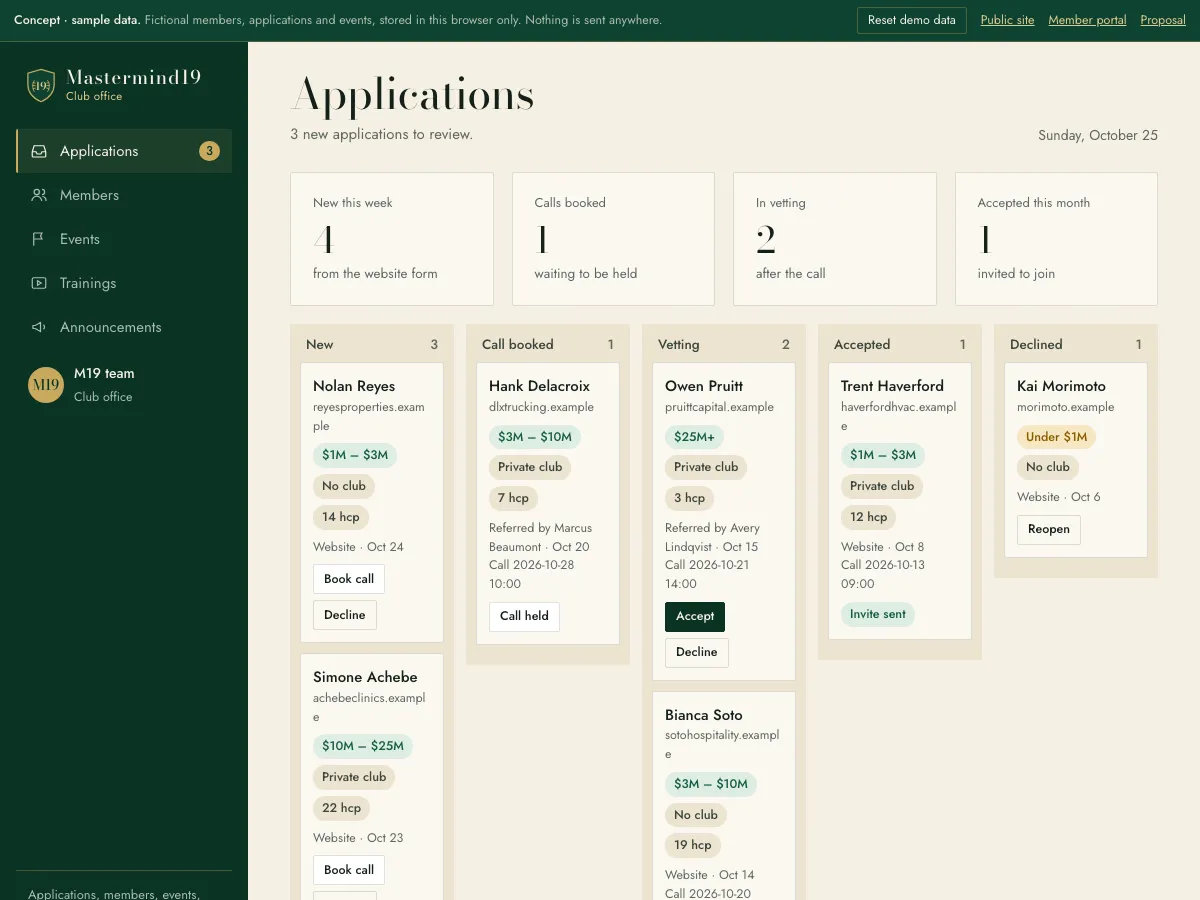
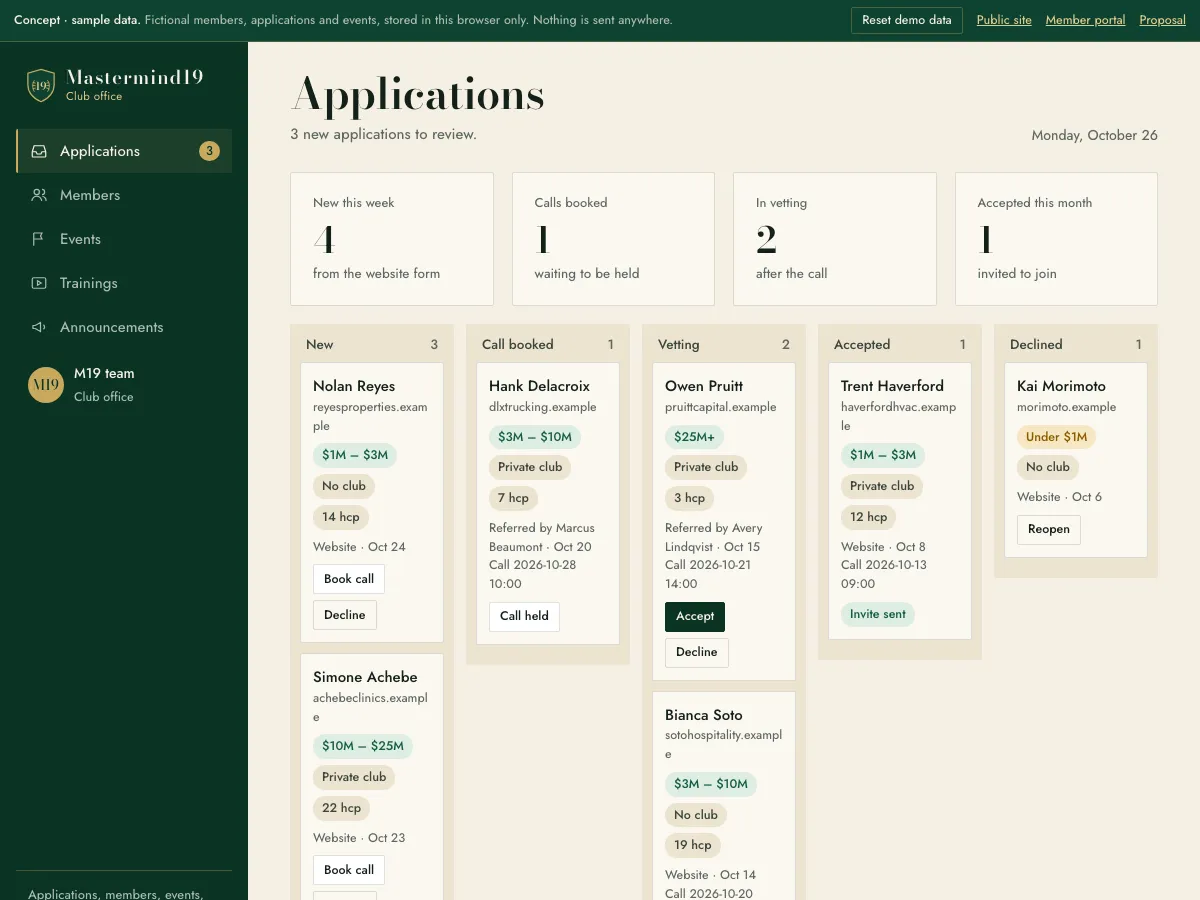
Mastermind19: heavier type (Bodoni Moda 600 at a fixed optical size, Jost 450)
Hairlines read too thin at display sizes. Display face now weight 600 with
opsz 28 everywhere it appears, body 450, nav 500; H1 trimmed so it holds
four lines. Proposal screenshots regenerated. Cache-busters bumped to v=2.

diff --git a/preview/mastermind19/site.css b/preview/mastermind19/site.css
@@ -10,16 +10,20 @@
   --ui:"Jost","Avenir Next","Helvetica Neue",system-ui,sans-serif;
   --ease:cubic-bezier(.2,.7,.1,1);
   --wrap:1240px; --gut:clamp(18px,4vw,56px);
+  --dw:600; --dopsz:28;
 }
 *{box-sizing:border-box}
 [hidden]{display:none!important}
 html{scroll-behavior:smooth;scroll-padding-top:90px;-webkit-text-size-adjust:100%}
-body{margin:0;background:var(--ivory);color:var(--ink);font-family:var(--ui);font-size:17px;line-height:1.6;font-weight:400;-webkit-font-smoothing:antialiased}
+body{margin:0;background:var(--ivory);color:var(--ink);font-family:var(--ui);font-size:17px;line-height:1.6;font-weight:450;-webkit-font-smoothing:antialiased}
 img,svg{display:block;max-width:100%}
 a{color:inherit}
 button{font:inherit;color:inherit;cursor:pointer}
-h1,h2,h3,h4{font-family:var(--display);font-weight:400;line-height:1.04;margin:0;letter-spacing:-.005em;text-wrap:balance}
-h1{font-size:clamp(44px,6.6vw,92px);line-height:.98;letter-spacing:-.015em}
+h1,h2,h3,h4{font-family:var(--display);font-weight:var(--dw);line-height:1.04;margin:0;letter-spacing:-.005em;text-wrap:balance}
+/* every display-face usage: sturdier hairlines via a fixed optical size */
+h1,h2,h3,h4,.kicker,.motto div,.manifesto .pull,.scorecard .what,.band blockquote,.founder .name,.founder .facts b,.qa summary,.steps b,.spread .where,.long-spreads .aside,.pagehead .side,.founder-page .portrait .mono,.hole .cap,footer .tag,.brand b,form.app .ok b{font-weight:var(--dw);font-optical-sizing:none;font-variation-settings:"opsz" var(--dopsz)}
+.kicker,.spread .where,.long-spreads .aside,.pagehead .side,.hole .cap,footer .tag{font-weight:500}
+h1{font-size:clamp(42px,6vw,84px);line-height:.98;letter-spacing:-.015em}
 h2{font-size:clamp(34px,4.4vw,58px)}
 h3{font-size:clamp(24px,2.4vw,32px)}
 p{margin:0}
@@ -34,10 +38,10 @@ p{margin:0}
 .top .wrap{display:flex;align-items:center;gap:28px;min-height:76px}
 .brand{display:flex;align-items:center;gap:12px;text-decoration:none;color:var(--ivory)}
 .brand .crest{width:34px;height:40px;flex:none}
-.brand b{font-family:var(--display);font-weight:500;font-size:22px;letter-spacing:.06em;line-height:1}
+.brand b{font-family:var(--display);font-size:22px;letter-spacing:.05em;line-height:1}
 .brand b small{display:block;font-family:var(--ui);font-weight:400;font-size:11.5px;letter-spacing:.02em;color:var(--brass2);margin-top:4px}
 .nav{display:flex;gap:28px;margin-left:auto;align-items:center}
-.nav a{text-decoration:none;font-size:15.5px;color:var(--ivory);padding:8px 0;border-bottom:1px solid transparent;transition:border-color .25s var(--ease)}
+.nav a{text-decoration:none;font-size:15.5px;font-weight:500;color:var(--ivory);padding:8px 0;border-bottom:1px solid transparent;transition:border-color .25s var(--ease)}
 .nav a:hover{border-bottom-color:var(--brass)}
 .nav a[aria-current=page]{border-bottom-color:var(--brass)}
 .nav .login{color:var(--brass2)}
@@ -75,7 +79,7 @@ section{padding:clamp(72px,9vw,128px) 0}
 .paper{background:var(--paper);color:var(--ink)}
 .kicker{font-family:var(--display);font-style:italic;font-size:19px;color:var(--brass2);margin-bottom:16px}
 .ivory .kicker,.linen .kicker,.paper .kicker{color:var(--goldk)}
-.lede{font-size:clamp(18px,1.5vw,21px);line-height:1.55;max-width:60ch;color:var(--ink2)}
+.lede{font-size:clamp(18px,1.5vw,21px);line-height:1.55;max-width:60ch;color:var(--ink2);font-weight:450}
 .dark .lede,.dark2 .lede{color:var(--muteD)}
 .rule{height:1px;background:var(--lineD);border:0;margin:0}
 .ivory .rule,.linen .rule,.paper .rule{background:var(--lineL)}
@@ -119,8 +123,8 @@ section{padding:clamp(72px,9vw,128px) 0}
 .yd .pin{stroke:var(--ivory);stroke-width:1.6}
 .yd .flag{fill:var(--flag)}
 .yd .cup{fill:var(--ivory)}
-.yd text{font-family:var(--display);fill:var(--ivory)}
-.yd .num{font-size:120px;font-weight:500;letter-spacing:-.04em}
+.yd text{font-family:var(--display);fill:var(--ivory);font-optical-sizing:none;font-variation-settings:"opsz" 28}
+.yd .num{font-size:120px;font-weight:700;letter-spacing:-.04em}
 .yd .lbl{font-family:var(--ui);font-size:13px;fill:var(--muteD);letter-spacing:.02em}
 .yd .frame{fill:none;stroke:var(--lineD);stroke-width:1}
 .ivory .yd .fw,.linen .yd .fw,.paper .yd .fw{fill:rgba(21,92,65,.08);stroke:var(--g700)}
@@ -154,7 +158,7 @@ section{padding:clamp(72px,9vw,128px) 0}
 .manifesto figure img{width:100%;height:auto;aspect-ratio:4/5;object-fit:cover;border-radius:2px}
 .manifesto figcaption{font-size:14px;color:var(--mute);margin-top:12px}
 .manifesto .pull{font-family:var(--display);font-size:clamp(26px,3vw,40px);line-height:1.22;margin:14px 0 22px;letter-spacing:-.005em}
-.manifesto .pull strong{font-weight:500;color:var(--g700)}
+.manifesto .pull strong{font-weight:700;color:var(--g700)}
 .manifesto .sub{font-size:18px;color:var(--ink2);max-width:52ch}
 @media (max-width:900px){.manifesto .wrap{grid-template-columns:1fr}.manifesto figure{order:2;max-width:520px}.manifesto figure img{aspect-ratio:3/2}}
 
@@ -214,7 +218,7 @@ section{padding:clamp(72px,9vw,128px) 0}
 .founder .facts div{padding:20px 0;border-right:1px solid var(--lineD);padding-right:16px}
 .founder .facts div+div{padding-left:22px}
 .founder .facts div:last-child{border-right:0}
-.founder .facts b{display:block;font-family:var(--display);font-weight:400;font-size:clamp(28px,3vw,42px);line-height:1}
+.founder .facts b{display:block;font-family:var(--display);font-size:clamp(28px,3vw,42px);line-height:1}
 .founder .facts span{display:block;font-size:14px;color:var(--muteD);margin-top:6px}
 @media (max-width:900px){.founder .wrap{grid-template-columns:1fr}.founder .facts{grid-template-columns:1fr}.founder .facts div{border-right:0;border-bottom:1px solid var(--lineD);padding:14px 0}.founder .facts div+div{padding-left:0}.founder .facts div:last-child{border-bottom:0}}
 
@@ -267,7 +271,7 @@ section{padding:clamp(72px,9vw,128px) 0}
 .steps{display:grid;grid-template-columns:repeat(3,minmax(0,1fr));gap:0;border:1px solid var(--lineD)}
 .steps div{padding:28px 26px 30px;border-right:1px solid var(--lineD)}
 .steps div:last-child{border-right:0}
-.steps b{display:block;font-family:var(--display);font-weight:400;font-size:26px;margin-bottom:10px}
+.steps b{display:block;font-family:var(--display);font-size:26px;margin-bottom:10px}
 .steps p{color:var(--muteD);font-size:16px}
 @media (max-width:800px){.steps{grid-template-columns:1fr}.steps div{border-right:0;border-bottom:1px solid var(--lineD)}.steps div:last-child{border-bottom:0}}
 
@@ -287,7 +291,7 @@ form.app .consent input{width:20px;height:20px;min-height:0;padding:0;margin-top
 form.app .consent a{color:var(--ink2)}
 form.app .btn{justify-self:start;min-width:220px}
 form.app .ok{display:none;grid-column:1/-1;background:var(--g900);color:var(--ivory);padding:22px 24px;border-radius:2px;font-size:17px}
-form.app .ok b{font-family:var(--display);font-weight:400;font-size:24px;display:block;margin-bottom:6px}
+form.app .ok b{font-family:var(--display);font-size:24px;display:block;margin-bottom:6px}
 form.app.sent .ok{display:block}
 form.app.sent .field,form.app.sent .consent,form.app.sent .btn{display:none}
 @media (max-width:900px){.form-sec .wrap{grid-template-columns:1fr}}

diff --git a/preview/mastermind19/portal.css b/preview/mastermind19/portal.css
@@ -7,16 +7,18 @@
   --amber:#8A5A00; --amberBg:#F6E7C3; --okBg:#DDEDE3; --ok:#155C41; --bad:#8E2A2A; --badBg:#F3DEDE;
   --lineD:rgba(200,169,94,.32); --lineL:rgba(20,33,26,.14);
   --display:"Bodoni Moda","Didot","Times New Roman",serif; --ui:"Jost","Avenir Next",system-ui,sans-serif;
-  --ease:cubic-bezier(.2,.7,.1,1); --r:2px;
+  --ease:cubic-bezier(.2,.7,.1,1); --r:2px; --dw:600; --dopsz:28;
 }
 *{box-sizing:border-box}
 [hidden]{display:none!important}
 html{-webkit-text-size-adjust:100%}
-body{margin:0;background:var(--ivory);color:var(--ink);font-family:var(--ui);font-size:16px;line-height:1.5;-webkit-font-smoothing:antialiased}
+body{margin:0;background:var(--ivory);color:var(--ink);font-family:var(--ui);font-size:16px;line-height:1.5;font-weight:450;-webkit-font-smoothing:antialiased}
 a{color:inherit}
 button{font:inherit;color:inherit;cursor:pointer}
 img,svg{display:block;max-width:100%}
-h1,h2,h3{font-family:var(--display);font-weight:400;margin:0;line-height:1.1}
+h1,h2,h3{font-family:var(--display);font-weight:var(--dw);margin:0;line-height:1.1}
+h1,h2,h3,.big,.date,.ev .kind,.empty b,.side .brand b,.av{font-weight:var(--dw);font-optical-sizing:none;font-variation-settings:"opsz" var(--dopsz)}
+.ev .kind{font-weight:500}
 :focus-visible{outline:2px solid var(--g700);outline-offset:2px}
 
 .demo-bar{background:var(--g800);color:var(--muteD);font-size:12.5px;padding:7px 14px;display:flex;gap:14px;align-items:center;flex-wrap:wrap;border-bottom:1px solid var(--lineD)}
@@ -30,7 +32,7 @@ h1,h2,h3{font-family:var(--display);font-weight:400;margin:0;line-height:1.1}
 .side{background:var(--g900);color:var(--ivory);padding:26px 16px 18px;position:sticky;top:0;height:100vh;display:flex;flex-direction:column;gap:2px}
 .side .brand{display:flex;align-items:center;gap:10px;text-decoration:none;padding:0 10px 24px;color:var(--ivory)}
 .side .brand .crest{width:30px;height:35px;flex:none}
-.side .brand b{font-family:var(--display);font-weight:500;font-size:19px;letter-spacing:.05em;line-height:1}
+.side .brand b{font-family:var(--display);font-size:19px;letter-spacing:.05em;line-height:1}
 .side .brand b small{display:block;font-family:var(--ui);font-weight:400;font-size:11.5px;color:var(--brass2);margin-top:4px;letter-spacing:.02em}
 .side nav a{display:flex;align-items:center;gap:12px;padding:10px 12px;border-radius:var(--r);text-decoration:none;font-size:15px;min-height:44px;color:var(--muteD);border-left:2px solid transparent}
 .side nav a:hover{color:var(--ivory);background:rgba(255,255,255,.04)}
@@ -106,7 +108,7 @@ h1,h2,h3{font-family:var(--display);font-weight:400;margin:0;line-height:1.1}
 .list .it{display:grid;grid-template-columns:64px minmax(0,1fr) auto;gap:16px;align-items:center;padding:14px 0;border-top:1px solid var(--lineL)}
 .list .it:first-child{border-top:0}
 .date{font-family:var(--display);text-align:center;border:1px solid var(--lineL);border-radius:var(--r);padding:6px 4px;background:var(--white);line-height:1}
-.date b{display:block;font-weight:500;font-size:22px}
+.date b{display:block;font-size:22px}
 .date span{display:block;font-family:var(--ui);font-size:11px;color:var(--mute);margin-top:3px;letter-spacing:.02em}
 .card.dark .date{background:transparent;border-color:var(--lineD)}
 .it .t{font-weight:500;font-size:15.5px}
@@ -146,7 +148,7 @@ h1,h2,h3{font-family:var(--display);font-weight:400;margin:0;line-height:1.1}
 /* pipeline */
 .pipe{display:grid;grid-template-columns:repeat(5,minmax(0,1fr));gap:12px;align-items:start}
 .col{background:var(--linen);border-radius:var(--r);padding:10px;min-height:120px}
-.col h3{font-family:var(--ui);font-weight:500;font-size:13.5px;color:var(--ink2);display:flex;justify-content:space-between;padding:4px 6px 10px}
+.col h3{font-family:var(--ui);font-weight:500;font-variation-settings:normal;font-size:13.5px;color:var(--ink2);display:flex;justify-content:space-between;padding:4px 6px 10px}
 .col h3 span{color:var(--mute)}
 .app{background:var(--paper);border:1px solid var(--lineL);border-radius:var(--r);padding:12px;margin-bottom:10px}
 .app b{display:block;font-weight:500;font-size:15px}

diff --git a/preview/mastermind19/pitch.html b/preview/mastermind19/pitch.html
@@ -10,8 +10,8 @@
 <link rel="icon" href="img/crest.png">
 <!-- MASTERMIND19 — proposal page · Williams Digital · 2026-10-25 · Dylan@williamsdigital.io -->
 <link rel="preconnect" href="https://fonts.googleapis.com"><link rel="preconnect" href="https://fonts.gstatic.com" crossorigin>
-<link href="https://fonts.googleapis.com/css2?family=Bodoni+Moda:ital,opsz,wght@0,6..96,400..700;1,6..96,400..700&family=Jost:wght@300;400;500;600&display=swap" rel="stylesheet">
-<link rel="stylesheet" href="site.css?v=1">
+<link href="https://fonts.googleapis.com/css2?family=Bodoni+Moda:ital,opsz,wght@0,6..96,400..700;1,6..96,400..700&family=Jost:wght@300..700&display=swap" rel="stylesheet">
+<link rel="stylesheet" href="site.css?v=2">
 <style>
 .p-head{padding:clamp(56px,7vw,100px) 0 clamp(40px,5vw,72px)}
 .p-head h1{font-size:clamp(32px,5.4vw,76px);overflow-wrap:anywhere}
@@ -34,13 +34,13 @@
 .dark .pts,.dark2 .pts{border-top-color:var(--lineD)}
 .pts div{display:grid;grid-template-columns:minmax(0,1fr) minmax(0,2fr);gap:18px;padding:18px 0;border-bottom:1px solid var(--lineL)}
 .dark .pts div,.dark2 .pts div{border-bottom-color:var(--lineD)}
-.pts b{font-family:var(--display);font-weight:400;font-size:22px;line-height:1.15}
+.pts b{font-family:var(--display);font-size:22px;line-height:1.15}
 .pts p{color:var(--ink2);font-size:16.5px}
 .dark .pts p,.dark2 .pts p{color:var(--muteD)}
 .eng{display:grid;grid-template-columns:repeat(3,minmax(0,1fr));gap:0;border:1px solid var(--lineL)}
 .eng div{padding:28px 26px 30px;border-right:1px solid var(--lineL)}
 .eng div:last-child{border-right:0}
-.eng b{display:block;font-family:var(--display);font-weight:400;font-size:26px;margin-bottom:6px}
+.eng b{display:block;font-family:var(--display);font-size:26px;margin-bottom:6px}
 .eng i{display:block;font-family:var(--display);font-style:italic;color:var(--goldk);margin-bottom:14px}
 .eng ul{margin:0;padding-left:18px;color:var(--ink2);font-size:15.5px}
 .eng li{margin:4px 0}
@@ -50,6 +50,9 @@
 
 @media (max-width:980px){.demos{grid-template-columns:1fr}.eng{grid-template-columns:1fr}.eng div{border-right:0;border-bottom:1px solid var(--lineL)}.eng div:last-child{border-bottom:0}}
 @media (max-width:900px){.p-head .wrap,.two,.contact{grid-template-columns:1fr}.p-head .from{justify-self:start;text-align:left}.pts div{grid-template-columns:1fr;gap:6px}}
+.pts b,.eng b,.eng i,.demo h3{font-weight:var(--dw);font-optical-sizing:none;font-variation-settings:"opsz" var(--dopsz)}
+.eng i{font-weight:500}
+.eng b,.pts b{font-weight:var(--dw)}
 </style>
 </head>
 <body>
@@ -137,6 +140,6 @@
  </div>
  <div class="legal"><span>Concept prepared October 2026. Not affiliated with or endorsed by Mastermind19. Copy and photographs from mastermind19.com; members, applications and events in the demos are fictional.</span></div>
 </div></footer>
-<script src="site.js?v=1"></script>
+<script src="site.js?v=2"></script>
 </body>
 </html>

diff --git a/preview/mastermind19/member.html b/preview/mastermind19/member.html
@@ -12,8 +12,8 @@
   Front-end demonstration. Members, applications and events are fictional sample data stored in this browser only.
 -->
 <link rel="preconnect" href="https://fonts.googleapis.com"><link rel="preconnect" href="https://fonts.gstatic.com" crossorigin>
-<link href="https://fonts.googleapis.com/css2?family=Bodoni+Moda:ital,opsz,wght@0,6..96,400..700;1,6..96,400..700&family=Jost:wght@300;400;500;600&display=swap" rel="stylesheet">
-<link rel="stylesheet" href="portal.css?v=1">
+<link href="https://fonts.googleapis.com/css2?family=Bodoni+Moda:ital,opsz,wght@0,6..96,400..700;1,6..96,400..700&family=Jost:wght@300..700&display=swap" rel="stylesheet">
+<link rel="stylesheet" href="portal.css?v=2">
 </head>
 <body data-role="member">
 <div class="demo-bar" role="note"><span><b>Concept · sample data.</b><span class="long"> Fictional members, applications and events, stored in this browser only. Nothing is sent anywhere.</span></span><span class="sp"></span><button type="button" id="reset">Reset demo data</button><a href="index.html">Public site</a><a href="admin.html">Team dashboard</a><a href="pitch.html">Proposal</a></div>
@@ -31,6 +31,6 @@
  </div>
 </div>
 <nav class="tabs" id="tabs" aria-label="Sections"></nav>
-<script src="portal.js?v=1"></script>
+<script src="portal.js?v=2"></script>
 </body>
 </html>

diff --git a/preview/mastermind19/admin.html b/preview/mastermind19/admin.html
@@ -12,8 +12,8 @@
   Front-end demonstration. Members, applications and events are fictional sample data stored in this browser only.
 -->
 <link rel="preconnect" href="https://fonts.googleapis.com"><link rel="preconnect" href="https://fonts.gstatic.com" crossorigin>
-<link href="https://fonts.googleapis.com/css2?family=Bodoni+Moda:ital,opsz,wght@0,6..96,400..700;1,6..96,400..700&family=Jost:wght@300;400;500;600&display=swap" rel="stylesheet">
-<link rel="stylesheet" href="portal.css?v=1">
+<link href="https://fonts.googleapis.com/css2?family=Bodoni+Moda:ital,opsz,wght@0,6..96,400..700;1,6..96,400..700&family=Jost:wght@300..700&display=swap" rel="stylesheet">
+<link rel="stylesheet" href="portal.css?v=2">
 </head>
 <body data-role="team">
 <div class="demo-bar" role="note"><span><b>Concept · sample data.</b><span class="long"> Fictional members, applications and events, stored in this browser only. Nothing is sent anywhere.</span></span><span class="sp"></span><button type="button" id="reset">Reset demo data</button><a href="index.html">Public site</a><a href="member.html">Member portal</a><a href="pitch.html">Proposal</a></div>
@@ -31,6 +31,6 @@
  </div>
 </div>
 <nav class="tabs" id="tabs" aria-label="Sections"></nav>
-<script src="portal.js?v=1"></script>
+<script src="portal.js?v=2"></script>
 </body>
 </html>

diff --git a/preview/mastermind19/apply.html b/preview/mastermind19/apply.html
@@ -16,8 +16,8 @@
   published on 2026-10-25. The application form is a demonstration and sends nothing.
 -->
 <link rel="preconnect" href="https://fonts.googleapis.com"><link rel="preconnect" href="https://fonts.gstatic.com" crossorigin>
-<link href="https://fonts.googleapis.com/css2?family=Bodoni+Moda:ital,opsz,wght@0,6..96,400..700;1,6..96,400..700&family=Jost:wght@300;400;500;600&display=swap" rel="stylesheet">
-<link rel="stylesheet" href="site.css?v=1">
+<link href="https://fonts.googleapis.com/css2?family=Bodoni+Moda:ital,opsz,wght@0,6..96,400..700;1,6..96,400..700&family=Jost:wght@300..700&display=swap" rel="stylesheet">
+<link rel="stylesheet" href="site.css?v=2">
 </head>
 <body class="has-mcta page-apply">
 <a class="skip" href="#main">Skip to content</a>
@@ -65,6 +65,6 @@
 </div></footer>
 <div class="concept">Website concept by <a href="https://williamsdigital.io">Williams Digital</a>. Not affiliated with Mastermind19. Copy and photographs are from mastermind19.com. The form sends nothing. <a href="pitch.html">See the proposal</a></div>
 <div class="mcta"><a class="btn gold" href="apply.html">Apply for membership</a></div>
-<script src="site.js?v=1"></script>
+<script src="site.js?v=2"></script>
 </body>
 </html>

diff --git a/preview/mastermind19/index.html b/preview/mastermind19/index.html
@@ -16,8 +16,8 @@
   published on 2026-10-25. The application form is a demonstration and sends nothing.
 -->
 <link rel="preconnect" href="https://fonts.googleapis.com"><link rel="preconnect" href="https://fonts.gstatic.com" crossorigin>
-<link href="https://fonts.googleapis.com/css2?family=Bodoni+Moda:ital,opsz,wght@0,6..96,400..700;1,6..96,400..700&family=Jost:wght@300;400;500;600&display=swap" rel="stylesheet">
-<link rel="stylesheet" href="site.css?v=1">
+<link href="https://fonts.googleapis.com/css2?family=Bodoni+Moda:ital,opsz,wght@0,6..96,400..700;1,6..96,400..700&family=Jost:wght@300..700&display=swap" rel="stylesheet">
+<link rel="stylesheet" href="site.css?v=2">
 </head>
 <body class="has-mcta ">
 <a class="skip" href="#main">Skip to content</a>
@@ -110,6 +110,6 @@
 </div></footer>
 <div class="concept">Website concept by <a href="https://williamsdigital.io">Williams Digital</a>. Not affiliated with Mastermind19. Copy and photographs are from mastermind19.com. The form sends nothing. <a href="pitch.html">See the proposal</a></div>
 <div class="mcta"><a class="btn gold" href="apply.html">Apply for membership</a></div>
-<script src="site.js?v=1"></script>
+<script src="site.js?v=2"></script>
 </body>
 </html>

diff --git a/preview/mastermind19/experiences.html b/preview/mastermind19/experiences.html
@@ -16,8 +16,8 @@
   published on 2026-10-25. The application form is a demonstration and sends nothing.
 -->
 <link rel="preconnect" href="https://fonts.googleapis.com"><link rel="preconnect" href="https://fonts.gstatic.com" crossorigin>
-<link href="https://fonts.googleapis.com/css2?family=Bodoni+Moda:ital,opsz,wght@0,6..96,400..700;1,6..96,400..700&family=Jost:wght@300;400;500;600&display=swap" rel="stylesheet">
-<link rel="stylesheet" href="site.css?v=1">
+<link href="https://fonts.googleapis.com/css2?family=Bodoni+Moda:ital,opsz,wght@0,6..96,400..700;1,6..96,400..700&family=Jost:wght@300..700&display=swap" rel="stylesheet">
+<link rel="stylesheet" href="site.css?v=2">
 </head>
 <body class="has-mcta ">
 <a class="skip" href="#main">Skip to content</a>
@@ -71,6 +71,6 @@
 </div></footer>
 <div class="concept">Website concept by <a href="https://williamsdigital.io">Williams Digital</a>. Not affiliated with Mastermind19. Copy and photographs are from mastermind19.com. The form sends nothing. <a href="pitch.html">See the proposal</a></div>
 <div class="mcta"><a class="btn gold" href="apply.html">Apply for membership</a></div>
-<script src="site.js?v=1"></script>
+<script src="site.js?v=2"></script>
 </body>
 </html>

diff --git a/preview/mastermind19/founder.html b/preview/mastermind19/founder.html
@@ -16,8 +16,8 @@
   published on 2026-10-25. The application form is a demonstration and sends nothing.
 -->
 <link rel="preconnect" href="https://fonts.googleapis.com"><link rel="preconnect" href="https://fonts.gstatic.com" crossorigin>
-<link href="https://fonts.googleapis.com/css2?family=Bodoni+Moda:ital,opsz,wght@0,6..96,400..700;1,6..96,400..700&family=Jost:wght@300;400;500;600&display=swap" rel="stylesheet">
-<link rel="stylesheet" href="site.css?v=1">
+<link href="https://fonts.googleapis.com/css2?family=Bodoni+Moda:ital,opsz,wght@0,6..96,400..700;1,6..96,400..700&family=Jost:wght@300..700&display=swap" rel="stylesheet">
+<link rel="stylesheet" href="site.css?v=2">
 </head>
 <body class="has-mcta ">
 <a class="skip" href="#main">Skip to content</a>
@@ -73,6 +73,6 @@
 </div></footer>
 <div class="concept">Website concept by <a href="https://williamsdigital.io">Williams Digital</a>. Not affiliated with Mastermind19. Copy and photographs are from mastermind19.com. The form sends nothing. <a href="pitch.html">See the proposal</a></div>
 <div class="mcta"><a class="btn gold" href="apply.html">Apply for membership</a></div>
-<script src="site.js?v=1"></script>
+<script src="site.js?v=2"></script>
 </body>
 </html>

diff --git a/preview/mastermind19/membership.html b/preview/mastermind19/membership.html
@@ -16,8 +16,8 @@
   published on 2026-10-25. The application form is a demonstration and sends nothing.
 -->
 <link rel="preconnect" href="https://fonts.googleapis.com"><link rel="preconnect" href="https://fonts.gstatic.com" crossorigin>
-<link href="https://fonts.googleapis.com/css2?family=Bodoni+Moda:ital,opsz,wght@0,6..96,400..700;1,6..96,400..700&family=Jost:wght@300;400;500;600&display=swap" rel="stylesheet">
-<link rel="stylesheet" href="site.css?v=1">
+<link href="https://fonts.googleapis.com/css2?family=Bodoni+Moda:ital,opsz,wght@0,6..96,400..700;1,6..96,400..700&family=Jost:wght@300..700&display=swap" rel="stylesheet">
+<link rel="stylesheet" href="site.css?v=2">
 </head>
 <body class="has-mcta ">
 <a class="skip" href="#main">Skip to content</a>
@@ -91,6 +91,6 @@
 </div></footer>
 <div class="concept">Website concept by <a href="https://williamsdigital.io">Williams Digital</a>. Not affiliated with Mastermind19. Copy and photographs are from mastermind19.com. The form sends nothing. <a href="pitch.html">See the proposal</a></div>
 <div class="mcta"><a class="btn gold" href="apply.html">Apply for membership</a></div>
-<script src="site.js?v=1"></script>
+<script src="site.js?v=2"></script>
 </body>
 </html>

diff --git a/preview/mastermind19/_src/build.py b/preview/mastermind19/_src/build.py
@@ -35,7 +35,7 @@ FOOTER = f'''</main>
 </div></footer>
 <div class="concept">Website concept by <a href="https://williamsdigital.io">Williams Digital</a>. Not affiliated with Mastermind19. Copy and photographs are from mastermind19.com. The form sends nothing. <a href="pitch.html">See the proposal</a></div>
 <div class="mcta"><a class="btn gold" href="apply.html">Apply for membership</a></div>
-<script src="site.js?v=1"></script>
+<script src="site.js?v=2"></script>
 </body>
 </html>
 '''
@@ -60,8 +60,8 @@ def page(file, title, desc, body, cls=''):
   published on 2026-10-25. The application form is a demonstration and sends nothing.
 -->
 <link rel="preconnect" href="https://fonts.googleapis.com"><link rel="preconnect" href="https://fonts.gstatic.com" crossorigin>
-<link href="https://fonts.googleapis.com/css2?family=Bodoni+Moda:ital,opsz,wght@0,6..96,400..700;1,6..96,400..700&family=Jost:wght@300;400;500;600&display=swap" rel="stylesheet">
-<link rel="stylesheet" href="site.css?v=1">
+<link href="https://fonts.googleapis.com/css2?family=Bodoni+Moda:ital,opsz,wght@0,6..96,400..700;1,6..96,400..700&family=Jost:wght@300..700&display=swap" rel="stylesheet">
+<link rel="stylesheet" href="site.css?v=2">
 </head>
 <body class="has-mcta {cls}">
 ''' + header(cur) + body + FOOTER
